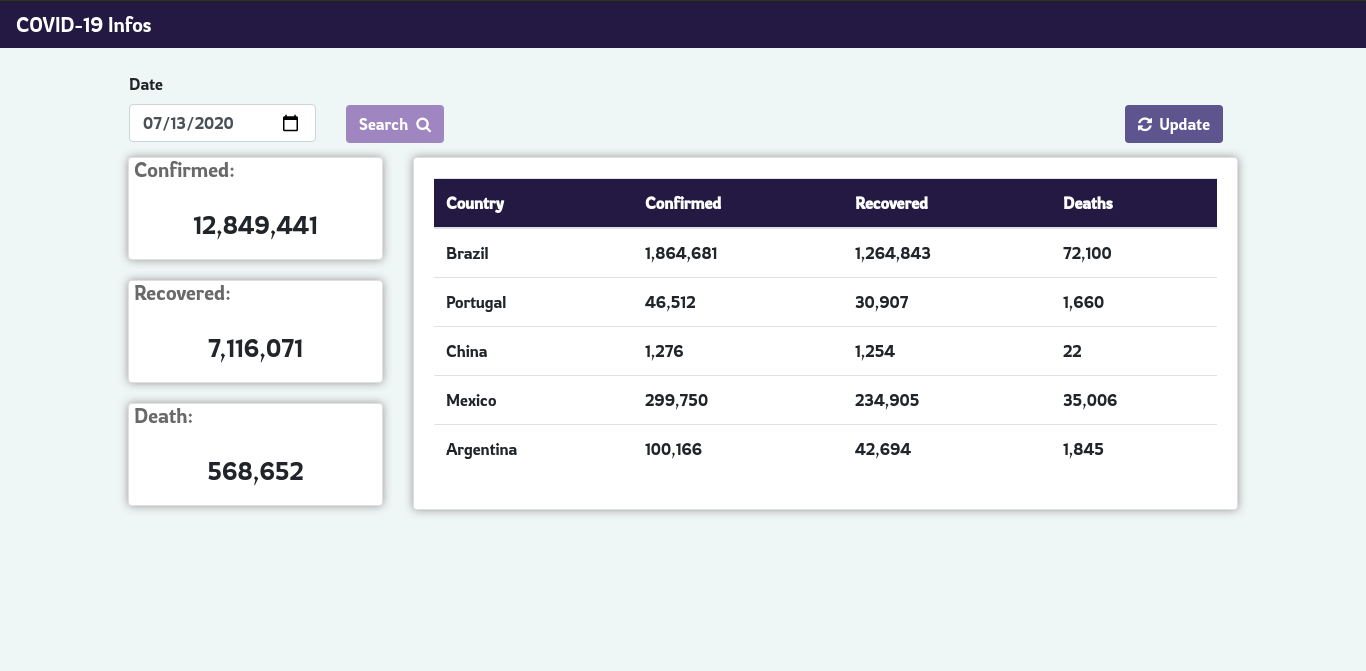
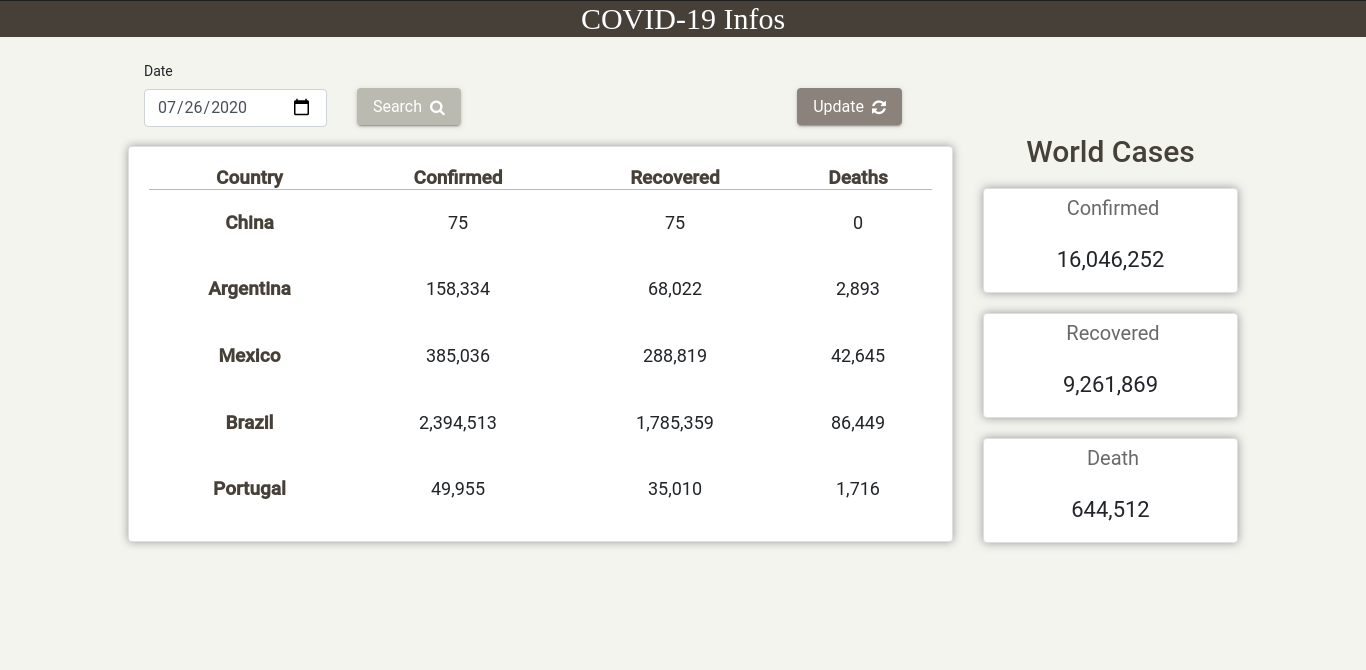
Add pie chart for mobile devices;

diff --git a/src/app/pages/chart/chart.component.ts b/src/app/pages/chart/chart.component.ts
@@ -35,6 +35,7 @@ export class ChartComponent implements OnInit {
 
   public casesSubscribe: Subscription;
 
+  //Config bar chart
   public barChartOptions: ChartOptions = {
     responsive: true,
     layout: {
@@ -52,6 +53,24 @@ export class ChartComponent implements OnInit {
     },
   };
 
+  //COnfig pie chart
+  public pieChartOptions: ChartOptions = {
+    responsive: true,
+    legend: { position: 'top' },
+    layout: {
+      padding: { top: 50 },
+    },
+    plugins: {
+      datalabels: {
+        formatter: (_, ctx) => {
+          const label = ctx.chart.data.labels[ctx.dataIndex];
+          return label;
+        },
+      },
+    },
+    aspectRatio: 1.5,
+  }
+
   public barChartData: ChartDataSets[] = [
     { data: [0], label: 'Confirmed' },
     { data: [0], label: 'Recovered' },
@@ -62,6 +81,12 @@ export class ChartComponent implements OnInit {
   public barChartLegend = true;
   public barChartPlugins = [pluginDataLabels];
 
+  // Configuration of pie chart
+  public pieChartLabels: Label[] = ['Confirmed', 'Recovered', 'Deaths'];
+  public pieChartData: number[] = [0, 0, 0];
+  public pieChartType: ChartType = 'pie';
+  public pieChartLegend = true;
+  public chartColors = [{ backgroundColor: ['#06d6a0', '#f15bb5', '#eeef20'] }];
 
   public countriesFilter = [
     { countrySlug: 'brazil', countryCode: 'BR', countryName: 'Brazil' },
@@ -82,6 +107,12 @@ export class ChartComponent implements OnInit {
 
   public formChangeCountry: FormGroup;
 
+  // Retriever browser resolution
+  public width = (window.innerWidth > 0) ? window.innerWidth : screen.width;
+  public height = (window.innerHeight > 0) ? window.innerHeight : screen.height;
+
+  public teste = window.onresize;
+
   constructor(
     private route: ActivatedRoute,
     private coutryService: CountryService,
@@ -95,6 +126,8 @@ export class ChartComponent implements OnInit {
   }
 
   public ngOnInit(): void {
+
+    //retrieving route data
     const {
       Country,
       Confirmed,
@@ -120,7 +153,7 @@ export class ChartComponent implements OnInit {
 
   async getCountriesStatisticsByDate(date: string): Promise<void> {
     this.dateInput = date;
-    const [year, month, day] = date.split('-').map(Number);
+    const [year, month, day] = date.split('-').map(Number); //  format date
 
     const fromDate = new Date(year, month - 1, day);
     const toDate = new Date(year, month - 1, day + 1)
@@ -135,6 +168,7 @@ export class ChartComponent implements OnInit {
       toDate.setDate(toDate.getDate() - 1);
     }
 
+    // call service
     this.casesSubscribe = this.coutryService.getCasesOfCountry({
       countrySlug: this.countries.Slug,
       fromDate,
@@ -153,6 +187,16 @@ export class ChartComponent implements OnInit {
     });
 
     this.toastr.success(null, 'Data has been updated!');
+  }
+
+  // Action for resolution change in browser
+  public changeResolution() {
+    this.width = (window.innerWidth > 0) ? window.innerWidth : screen.width;
+    this.height = (window.innerHeight > 0) ? window.innerHeight : screen.height;
+
+    if (this.width > 990 && this.width < 1000) {
+      this.toastr.info(null, 'The chart has been changed for you better experience!');
+    }
   }
 
   async changeChartData(date: string, countrySlug: string): Promise<void> {
@@ -182,7 +226,6 @@ export class ChartComponent implements OnInit {
         this.countries = Object.assign(this.countries, responseCountry);
       });
 
-
     this.changeDataChart({
       confirmed: this.countries.Confirmed,
       recovered: this.countries.Recovered,
@@ -193,6 +236,7 @@ export class ChartComponent implements OnInit {
   }
 
   async changeCountry(country: CountriesSelect) {
+    // Format date
     const countrySlug = country.countryCode;
     const dateFormat: string = this.datePipe.transform(this.countries.Date, 'yyyy-MM-dd');
 
@@ -200,6 +244,7 @@ export class ChartComponent implements OnInit {
     console.log('teste', countrySlug)
     console.log('Data teste', this.dateInput)
 
+    // Call changeChartData() in changing date
     if (this.dateInput) {
       this.changeChartData(this.dateInput, countrySlug);
     } else {
@@ -213,5 +258,7 @@ export class ChartComponent implements OnInit {
       { data: [recovered], label: 'Recovered' },
       { data: [deaths], label: 'Deaths' }
     ];
+
+    this.pieChartData = [confirmed, recovered, deaths];
   }
 }

diff --git a/src/app/pages/table/table.component.ts b/src/app/pages/table/table.component.ts
@@ -20,6 +20,7 @@ export class TableComponent implements OnInit {
   public countriesSubcription: Subscription;
   public worldCasesSubcription: Subscription;
 
+  // standard info of table
   public headers = ["Country", "Confirmed", "Recovered", "Deaths"];
   public countriesFilter = [
     { countrySlug: 'brazil', countryCode: 'BR' },
@@ -45,18 +46,19 @@ export class TableComponent implements OnInit {
   ) { }
 
   async ngOnInit(): Promise<void> {
+    // format date
     const date = new Date();
     const dateTransform = this.datePipe.transform(date, 'yyyy-MM-dd');
 
+    // get data of world cases in service
     this.worldCasesSubcription = this.countryService.getTotalCasesInTheWorld()
       .subscribe(cases => this.worldCases = cases)
-
-    console.log('Cases', this.worldCases)
 
     this.getCountriesStatisticsByDate(dateTransform, true);
   }
 
   async getCountriesStatisticsByDate(date: string, firstLoad?: boolean): Promise<void> {
+    // format date
     const [year, month, day] = date.split('-').map(Number);
     this.dateToday = new Date(year, month - 1, day);
 
@@ -73,6 +75,7 @@ export class TableComponent implements OnInit {
       toDate.setDate(toDate.getDate() - 1);
     }
 
+    // call of getCasesOfCountry in service
     await forkJoin(this.countriesFilter.map(({ countrySlug }) =>
       this.countriesSubcription = this.countryService.getCasesOfCountry({
         countrySlug,
@@ -83,7 +86,7 @@ export class TableComponent implements OnInit {
           const countryIndex = this.countries.findIndex(
             country => country.CountryCode === response.CountryCode
           );
-          console.log(response)
+
           if (countryIndex >= 0) {
             this.countries[countryIndex] = response;
             return;
@@ -101,6 +104,7 @@ export class TableComponent implements OnInit {
       countryItem => countryItem.countryCode === country.CountryCode
     );
 
+    // listening to route data
     this.router.navigate(['/chart'], {
       queryParams: {
         Country: country.Country,

diff --git a/src/app/pages/chart/chart.component.html b/src/app/pages/chart/chart.component.html
@@ -10,7 +10,7 @@
   </div>
   <div class="card-body">
     <div class="row">
-      <div class="col-12 col-sm-7 col-md-7 col-lg-7 col-xl-7">
+      <div class="options col-12 col-sm-7 col-md-7 col-lg-7 col-xl-7">
         <mat-form-field appearance="fill">
           <mat-label>Countries</mat-label>
           <mat-select>
@@ -23,13 +23,21 @@
       </div>
     </div>
 
-    <div style="overflow: auto; width: auto; height: auto;">
-      <div class="canvas-cases">
-        <canvas baseChart [datasets]="this.barChartData" [labels]="this.barChartLabels" [options]="this.barChartOptions"
-          [plugins]="this.barChartPlugins" [legend]="this.barChartLegend" [chartType]="this.chartType">
-        </canvas>
-      </div>
+    <div (window:resize)="this.changeResolution()">
+
     </div>
+    <div class="canvas-cases" *ngIf="this.width > 1000">
+      <canvas baseChart [datasets]="this.barChartData" [labels]="this.barChartLabels" [options]="this.barChartOptions"
+        [plugins]="this.barChartPlugins" [legend]="this.barChartLegend" [chartType]="this.chartType"
+        [colors]="chartColors">
+      </canvas>
+    </div>
+    <div *ngIf="this.width < 1000" class="pie-chart">
+      <canvas baseChart [data]="pieChartData" [labels]="pieChartLabels" [chartType]="pieChartType"
+        [options]="pieChartOptions" [colors]="chartColors" [legend]="pieChartLegend">
+      </canvas>
+    </div>
+
   </div>
   <div class="card-footer">
     <div class="col-12 col-sm-12 col-mg-12 col-lg-2 col-xl-2">

diff --git a/src/app/pages/table/table.component.scss b/src/app/pages/table/table.component.scss
@@ -5,6 +5,7 @@ table {
 
     tr {
       font-size: 18px;
+      text-align: center;
     }
 
     th {
@@ -103,46 +104,3 @@ h4 {
     display: inline;
   }
 }
-
-// @media (max-width: 800px) {
-
-//     .buttons {
-//         margin-left: 20px;
-//         align-items: center;
-//     }
-
-//     span {
-//         display: block;
-//         text-align: left;
-//     }
-
-//     table {
-//       border: none;
-
-//       thead {
-//         display: none;
-//       }
-
-//       tbody {
-//         tr {
-//           margin-bottom: 10px;
-//           display: block;
-//           border: 1px solid #dad6eb;
-
-//           td {
-//             display: block;
-//             text-align: right;
-//           }
-
-//           td:before {
-//             content: attr(data-title);
-//             position: absolute;
-//             left: 15px;
-//             display: block;
-//             font-weight: 600;
-//             font-size: 1em;
-//           }
-//         }
-//       }
-//     }
-// }

diff --git a/src/app/components/search-header/search-header.component.html b/src/app/components/search-header/search-header.component.html
@@ -2,12 +2,12 @@
   <div class="col-12 col-sm-6 col-md-6 col-lg-6 col-xl-6">
     <form [formGroup]="searchForm" (submit)="this.handleSubmitSearchForm()">
       <div class="row">
-        <div class="form-group col-12 col-sm-7 col-md-7 col-lg-7 col-xl-7 ml-3">
+        <div class="form-group col-9 col-sm-7 col-md-7 col-lg-7 col-xl-7 ml-3">
           <label for="date">Date</label>
           <input type="date" class="form-control" formControlName="date" id="date">
         </div>
 
-        <div class="buttons col-2 col-sm-2 col-md-1 col-lg-1 col-xl-1">
+        <div class="buttons col-1 col-sm-2 col-md-1 col-lg-1 col-xl-1">
           <button type="submit" class="btn btn-wide btn-icon secondary" mat-raised-button>
             <span class="button-title">Search</span>
             <i class="fa fa-search ml-2"></i>

diff --git a/src/app/pages/chart/chart.component.scss b/src/app/pages/chart/chart.component.scss
@@ -8,6 +8,11 @@
   flex: 1;
 }
 
+.pie-chart {
+  width: 100%;
+  height: 900px;
+}
+
 .secondary {
   background-color: #bcb8b1;
   border-color: #8a817c;
@@ -36,18 +41,37 @@
   .canvas-cases {
     margin-top: 150px;
     width: auto;
-    height: 900px;
+    height: 1000px;
+  }
+
+  .card {
+    height: 950px;
+  }
+}
+
+@media all and (max-width: 990px) {
+  .card {
+    height: 750px;
   }
 }
 
 @media all and (max-width: 600px) {
-  .canvas-cases {
+  .card {
+    height: 700px;
+  }
+}
+
+@media all and (max-width: 400px) {
+  .pie-chart {
+    width: 100%;
+    height: 100%;
+  }
+
+  .options {
     margin-top: 80px;
-    width: 600px;
-    min-height: 500px;
   }
 
   .card {
-    height: 550px;
+    height: 600px;
   }
 }

diff --git a/src/app/components/search-header/search-header.component.ts b/src/app/components/search-header/search-header.component.ts
@@ -24,6 +24,7 @@ export class SearchHeaderComponent implements OnInit {
   ) { }
 
   public ngOnInit(): void {
+    // Format date
     const date = this.datePipe.transform(
       this.date || new Date(), 'yyyy-MM-dd',
     );
@@ -37,7 +38,6 @@ export class SearchHeaderComponent implements OnInit {
     this.searchForm = this.formBuilder.group({
       date: [formattedDate, Validators.required]
     })
-
   }
 
   public handleSubmitSearchForm(): void {
@@ -49,7 +49,7 @@ export class SearchHeaderComponent implements OnInit {
       this.toastr.warning(null, 'Date can not be larger the current date!');
       return;
     }
-    console.log('date', date)
+
     this.submitFn.emit(date);
   }
 

diff --git a/src/app/components/search-header/search-header.component.scss b/src/app/components/search-header/search-header.component.scss
@@ -37,3 +37,14 @@ div.search-header {
     display: none;
   }
 }
+
+@media all and (max-width: 400px) {
+  .button-title {
+    display: none;
+  }
+
+  .secondary {
+    width: 100%;
+    height: 40px;
+  }
+}
